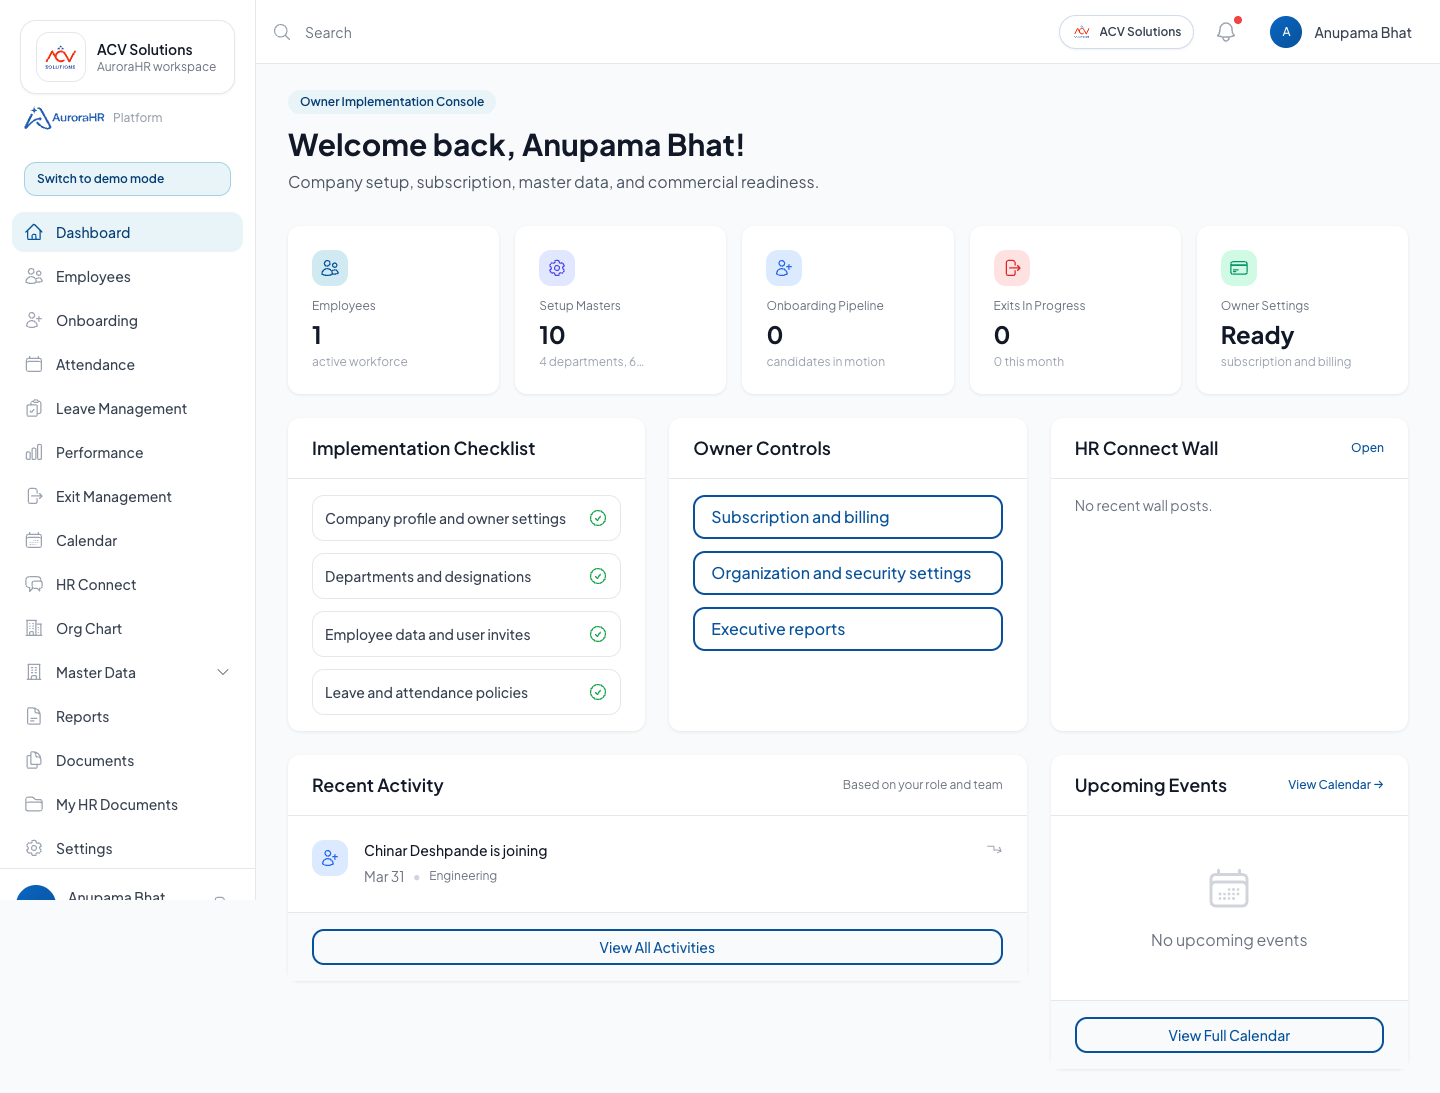
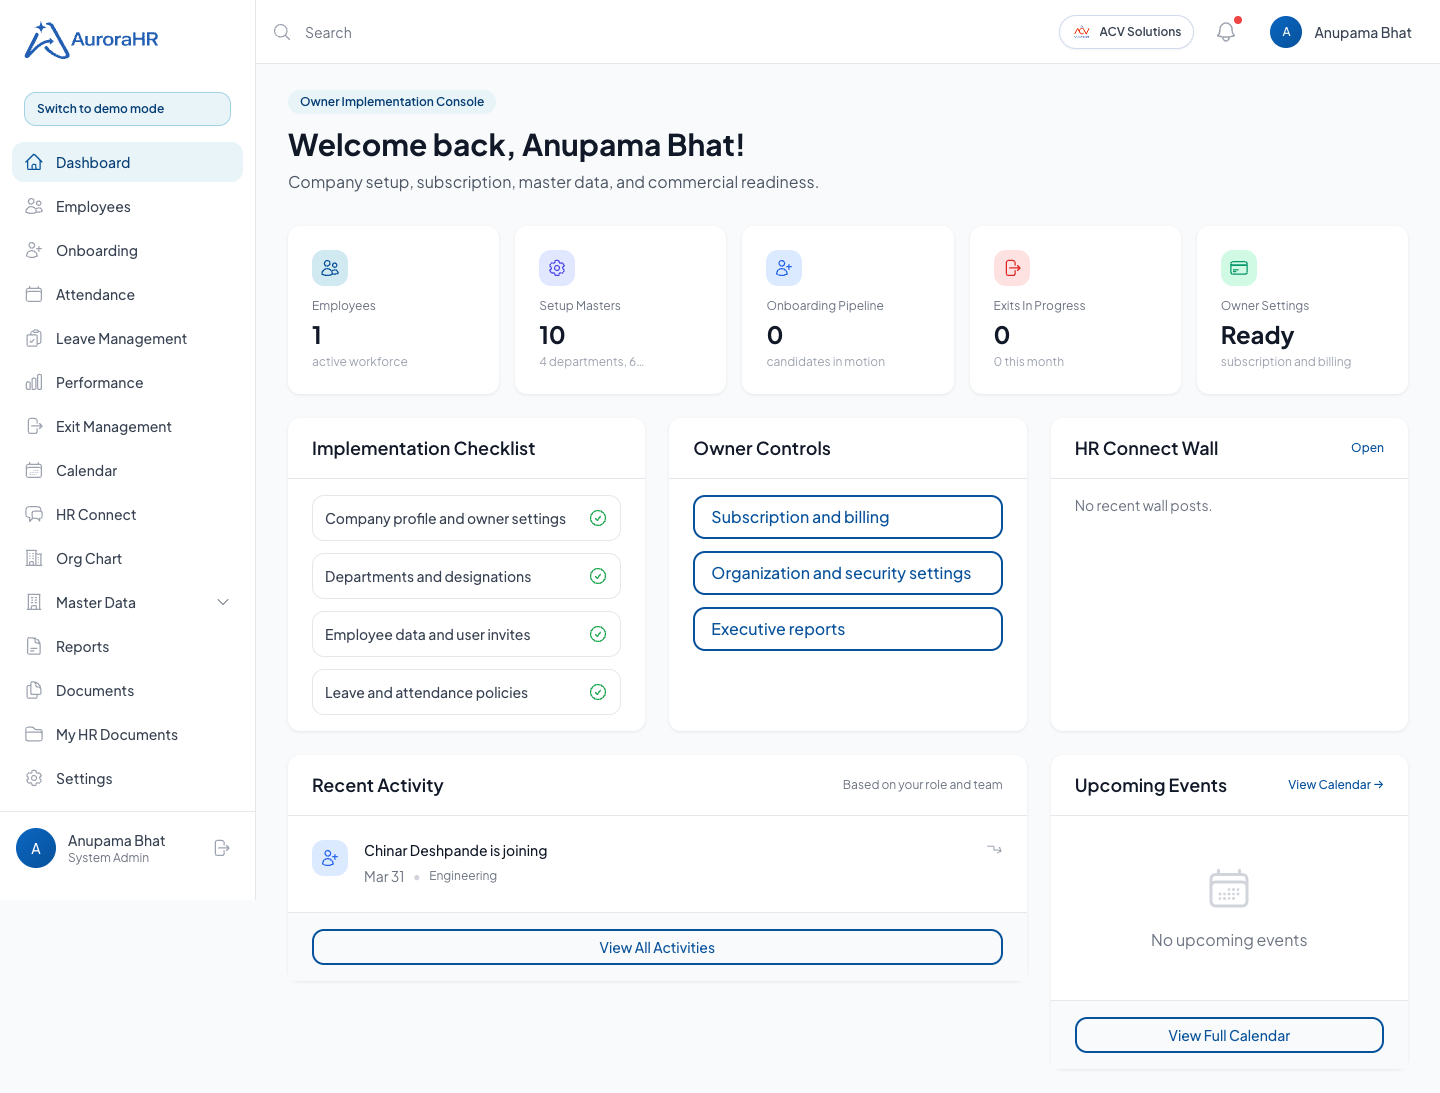
fix: keep tenant branding in title bar

Changed region(s): [[0.0, 0.0933, 0.125, 0.8399], [0.0, 0.0311, 0.125, 0.0622]]

diff --git a/frontend-web/src/components/layout/ModernLayout.tsx b/frontend-web/src/components/layout/ModernLayout.tsx
@@ -126,44 +126,6 @@ export const ModernLayout = ({ children }: ModernLayoutProps) => {
   const isActive = (href: string) => location.pathname === href;
   const isParentActive = (item: NavItemConfig) =>
     item.children?.some((child) => isActive(child.href)) || isActive(item.href);
-  const renderTenantBrand = (variant: 'desktop' | 'mobile' = 'desktop') => {
-    const compact = variant === 'mobile';
-
-    return (
-      <button
-        type="button"
-        onClick={() => {
-          navigate('/dashboard');
-          if (compact) setSidebarOpen(false);
-        }}
-        className={`w-full rounded-xl border border-gray-200 bg-white text-left shadow-sm transition hover:border-primary-200 hover:shadow ${
-          compact ? 'px-3 py-3' : 'px-4 py-3'
-        }`}
-      >
-        <div className="flex items-center gap-3">
-          <div className="flex h-12 w-12 shrink-0 items-center justify-center overflow-hidden rounded-lg bg-white ring-1 ring-gray-200">
-            {tenantBrand.logoUrl ? (
-              <img src={tenantBrand.logoUrl} alt={`${tenantBrand.companyName} logo`} className="h-10 w-10 object-contain" />
-            ) : (
-              <span className="text-sm font-bold text-primary-700">
-                {tenantBrand.companyName
-                  .split(' ')
-                  .filter(Boolean)
-                  .slice(0, 2)
-                  .map((word) => word.charAt(0))
-                  .join('')
-                  .toUpperCase() || 'AH'}
-              </span>
-            )}
-          </div>
-          <div className="min-w-0">
-            <p className="truncate text-sm font-semibold text-gray-900">{tenantBrand.companyName}</p>
-            <p className="truncate text-xs text-gray-500">AuroraHR workspace</p>
-          </div>
-        </div>
-      </button>
-    );
-  };
 
   return (
     <div className="min-h-screen bg-gray-50">
@@ -171,16 +133,13 @@ export const ModernLayout = ({ children }: ModernLayoutProps) => {
       <div className="hidden lg:fixed lg:inset-y-0 lg:flex lg:w-64 lg:flex-col">
         <div className="flex flex-col flex-grow bg-white border-r border-gray-200 pt-5 pb-4 overflow-y-auto">
           {/* Logo */}
-          <div className="flex flex-col gap-3 px-5">
-            {renderTenantBrand('desktop')}
-            <div className="flex items-center gap-2 px-1">
-              <img
-                src={DEFAULT_PLATFORM_LOGO}
-                alt="AuroraHR"
-                className="h-6 w-auto"
-              />
-              <span className="text-xs font-medium text-gray-400">Platform</span>
-            </div>
+          <div className="flex items-center flex-shrink-0 px-6">
+            <img
+              src={DEFAULT_PLATFORM_LOGO}
+              alt="AuroraHR - Illuminate The Journey | Grow Every Person"
+              className="h-10 w-auto cursor-pointer"
+              onClick={() => navigate('/dashboard')}
+            />
           </div>
 
           {/* Navigation */}
@@ -325,7 +284,12 @@ export const ModernLayout = ({ children }: ModernLayoutProps) => {
               {/* Mobile menu content - reuse desktop sidebar content */}
               <div className="flex-1 h-0 pt-5 pb-4 overflow-y-auto">
                 <div className="flex items-center flex-shrink-0 px-4">
-                  {renderTenantBrand('mobile')}
+                  <img
+                    src={DEFAULT_PLATFORM_LOGO}
+                    alt="AuroraHR - Illuminate The Journey | Grow Every Person"
+                    className="h-10 w-auto cursor-pointer"
+                    onClick={() => { navigate('/dashboard'); setSidebarOpen(false); }}
+                  />
                 </div>
                 <nav className="mt-5 px-2 space-y-1">
                   <button
@@ -401,7 +365,7 @@ export const ModernLayout = ({ children }: ModernLayoutProps) => {
             </div>
             <div className="ml-2 flex shrink-0 items-center md:ml-6 space-x-2 sm:space-x-3">
               <div
-                className="hidden max-w-[220px] items-center gap-2 rounded-full border bg-white px-3 py-1.5 text-xs font-semibold text-gray-700 shadow-sm sm:flex"
+                className="flex max-w-[150px] items-center gap-2 rounded-full border bg-white px-2 py-1.5 text-xs font-semibold text-gray-700 shadow-sm sm:max-w-[220px] sm:px-3"
                 style={{ borderColor: `${tenantBrand.primaryColor}33` }}
                 title={tenantBrand.companyName}
               >

diff --git a/docs/qa/acv-tenant-branding-visual-2026-05-23/report.md b/docs/qa/acv-tenant-branding-visual-2026-05-23/report.md
@@ -1,6 +1,6 @@
 # ACV Tenant Branding Visual QA
 
-Date: 2026-05-23
+Date: 2026-05-24
 
 ## Scope
 
@@ -12,7 +12,8 @@ This pass validates the first visible ACV identity slice inside the authenticate
 - Desktop dashboard render at 1440 x 900.
 - Mobile dashboard render at 390 x 844 with the mobile navigation opened.
 - Organization Settings render with tenant brand controls.
-- Tenant identity visibility in the sidebar and top bar.
+- Tenant identity visibility in the title bar near the user profile.
+- AuroraHR logo remains untouched in the desktop sidebar and mobile drawer.
 - ACV logo loading from tenant/organization settings.
 - AuroraHR platform identity retained as the underlying product brand.
 - Frontend and backend production builds.
@@ -23,11 +24,11 @@ Passed.
 
 | Check | Result |
 | --- | --- |
-| ACV Solutions visible in desktop app shell | Passed |
-| ACV logo visible in desktop app shell | Passed |
-| AuroraHR workspace label visible | Passed |
-| ACV Solutions visible in mobile navigation | Passed |
-| ACV logo visible in mobile navigation | Passed |
+| AuroraHR logo remains primary sidebar/drawer logo | Passed |
+| ACV Solutions visible in desktop title bar | Passed |
+| ACV logo visible in desktop title bar | Passed |
+| ACV Solutions visible in mobile title bar | Passed |
+| ACV logo visible in mobile title bar | Passed |
 | Organization Settings exposes brand color controls | Passed |
 | Backend build | Passed |
 | Frontend build | Passed |
